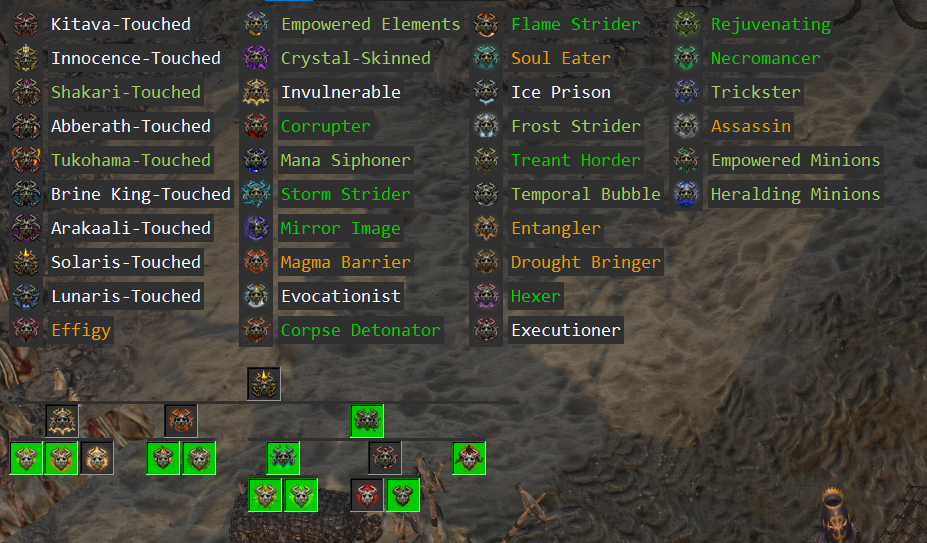
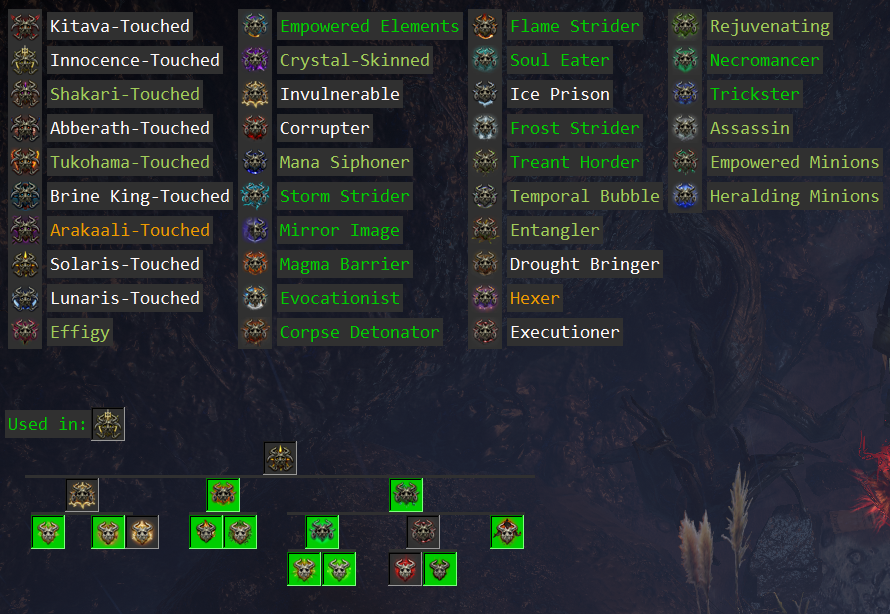
Update README with information about parent recipes in recipe tree

diff --git a/README.md b/README.md
@@ -63,6 +63,8 @@ If you click at any recipe icon, then the recipe tree will open:
 
 If the icon is highlighted in green, then that means you have this item in your inventory. You could hover of highlighted items to display them in your inventory. The tree is also interactable. You could click at other nodes to zoom in.
 
+Above the tree, a list of recipes (next to 'Used in:') that the selected recipe could be used in will be displayed
+
 Both recipe list and recipe tree could be also moved with the right mouse button held.
 
 ## Installation
